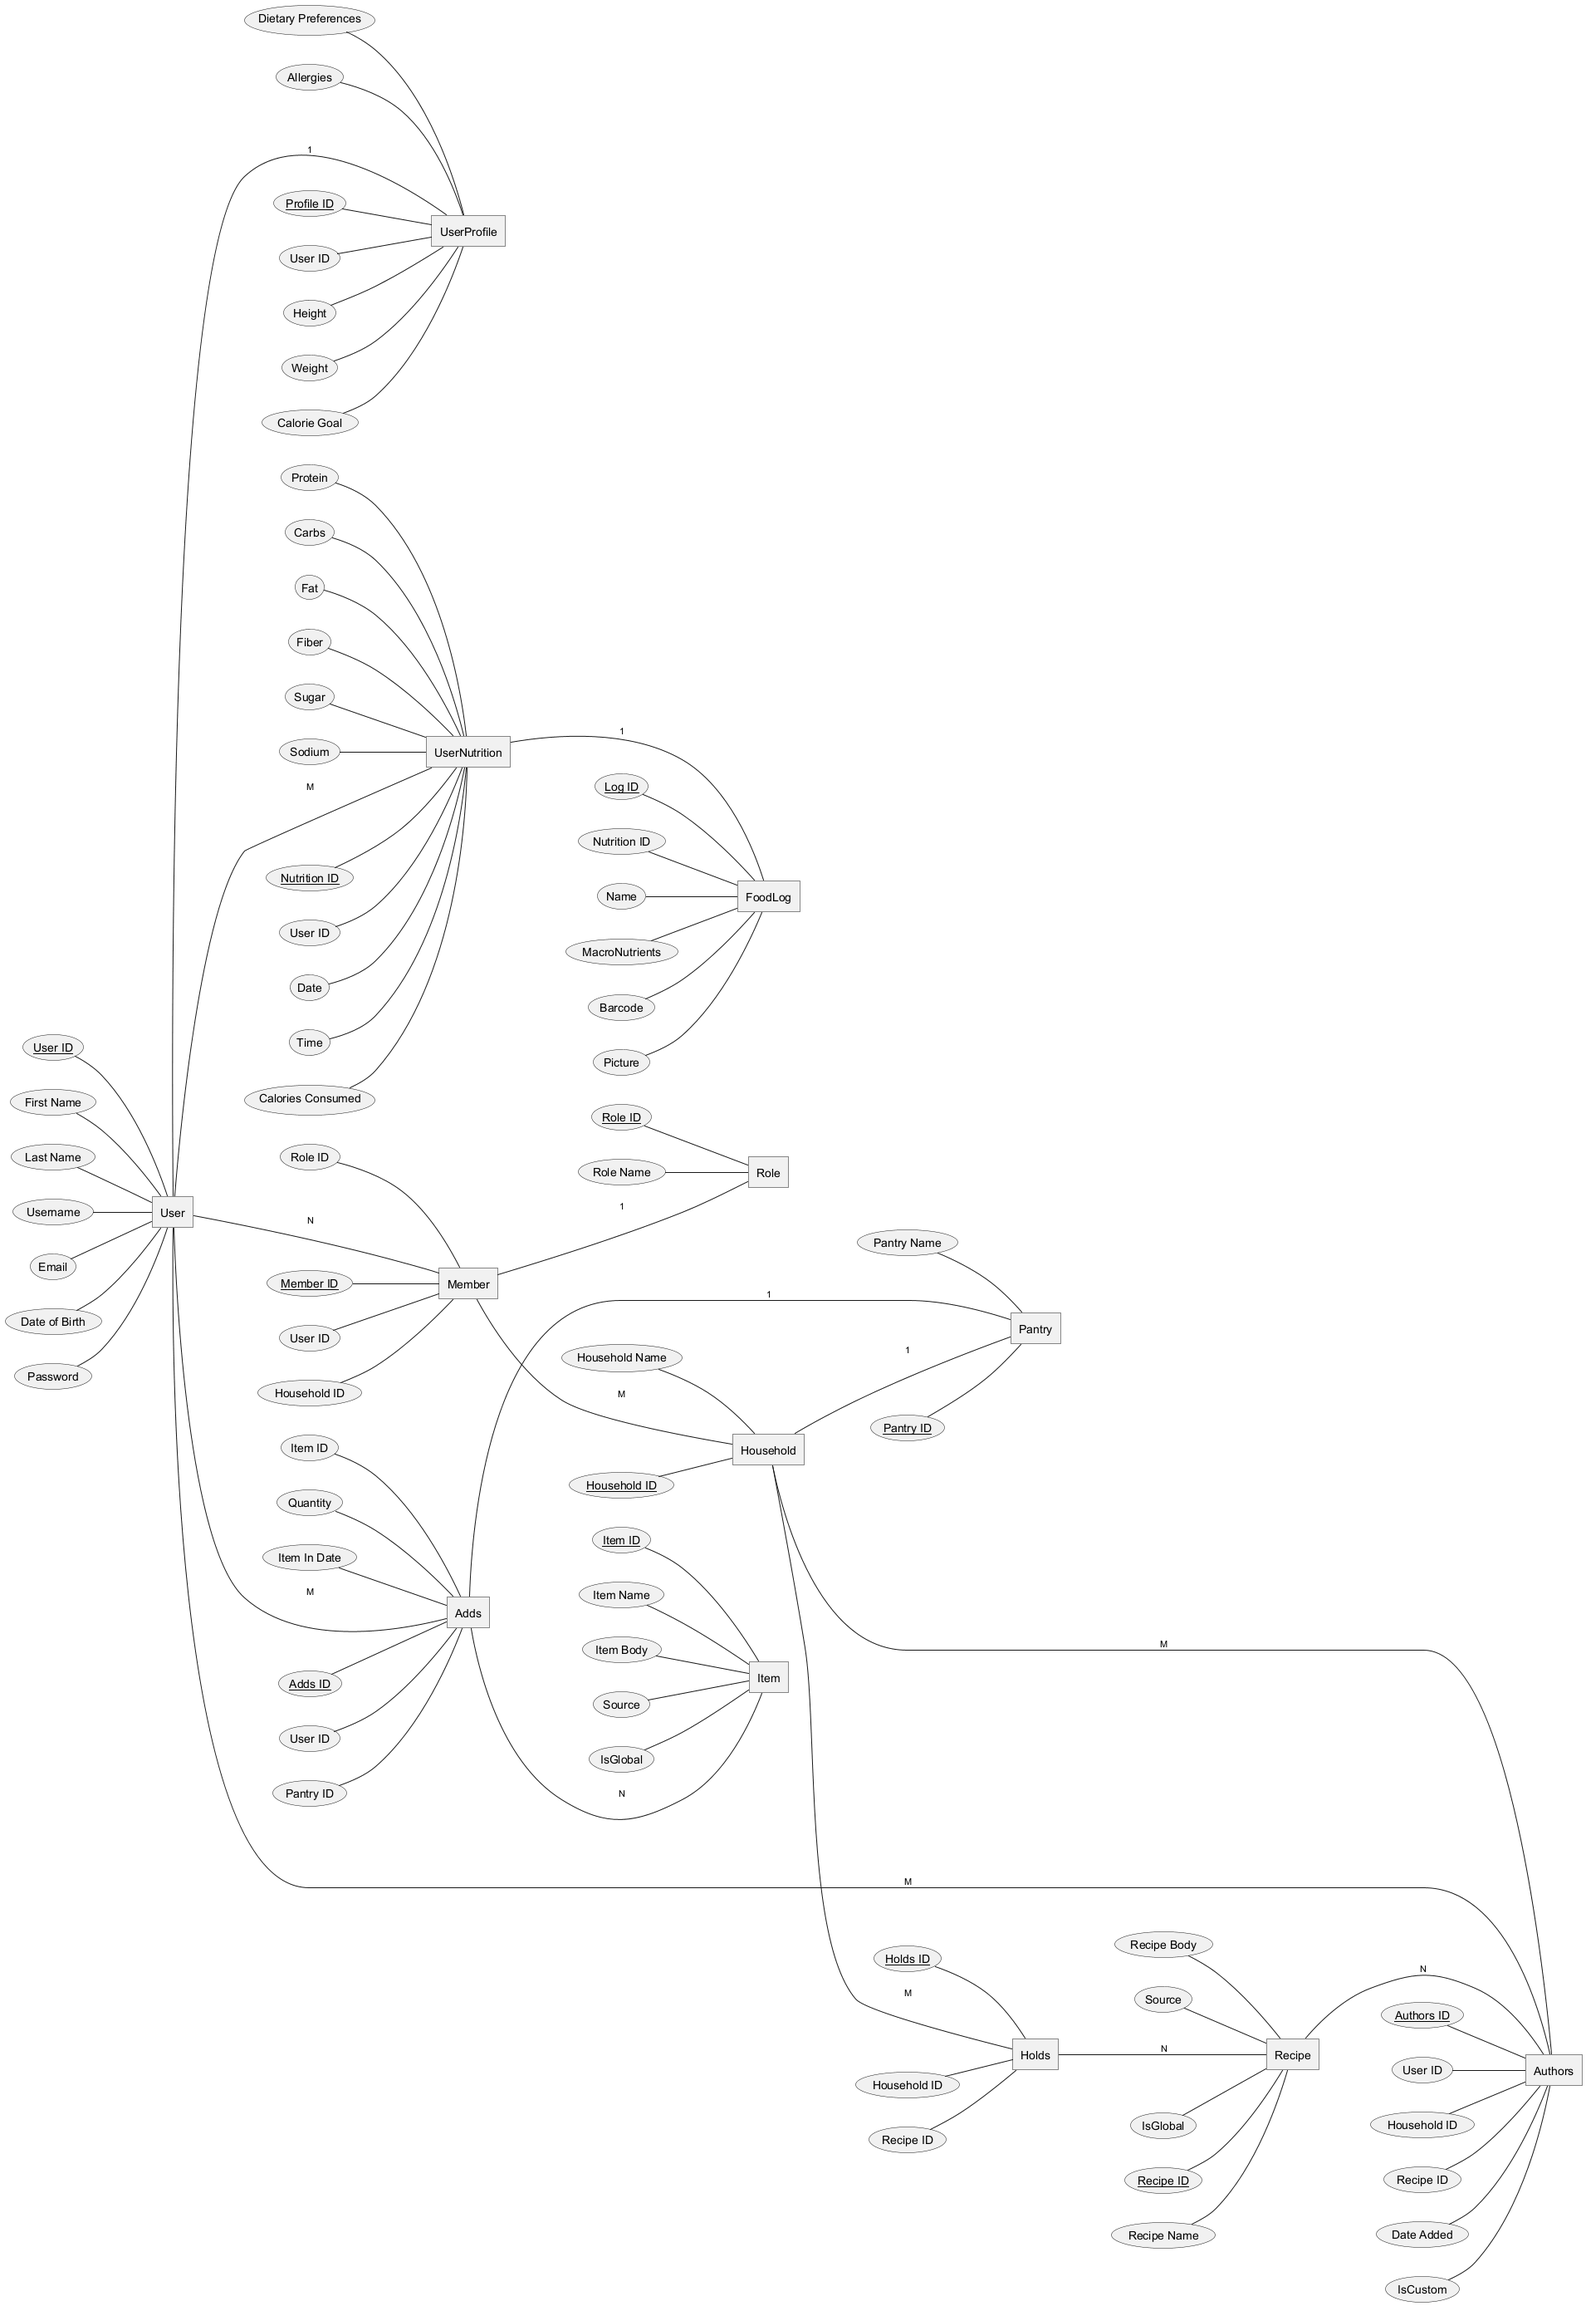
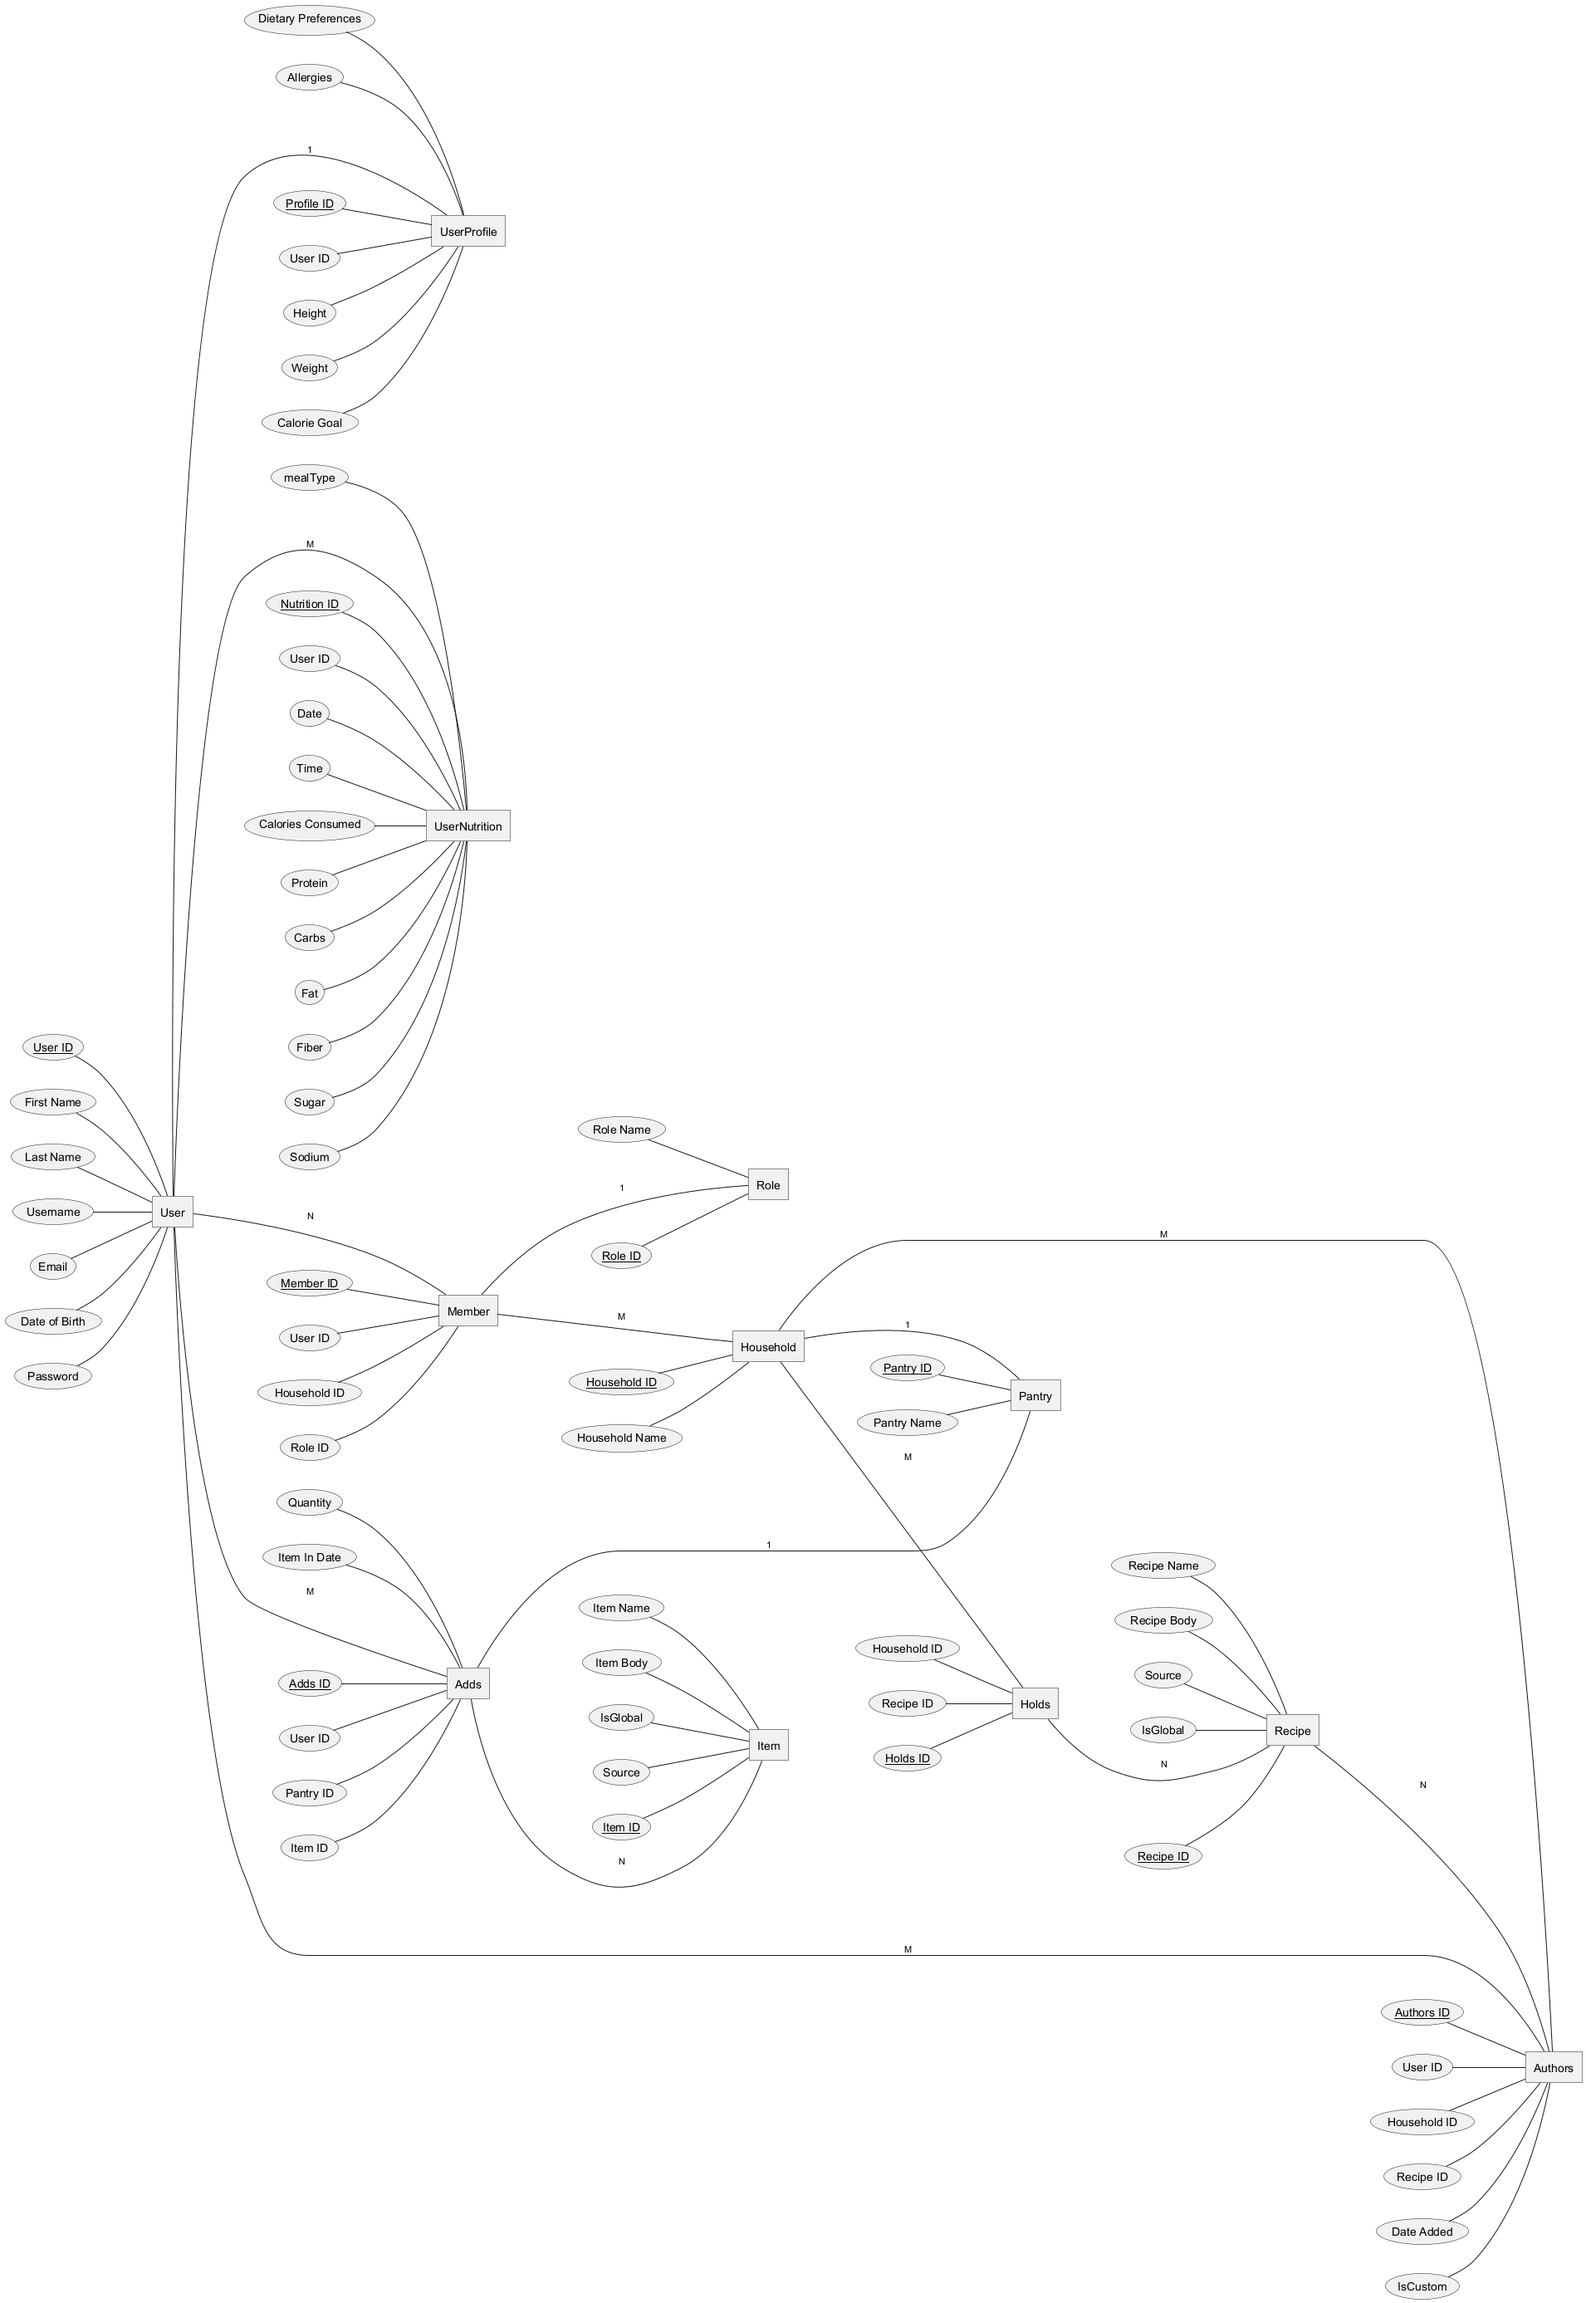
fixed ERD for food tracking & changed some css on search page

diff --git a/src/templates/meal_item_search.html b/src/templates/meal_item_search.html
@@ -12,7 +12,7 @@
 <main class="container">
   <h2>Search for your food item here</h2>
   <form action = "/api_search_item_name" method = "POST"> 
-    <input type = "search", id="search_input" name="search_input" placeholder="Type the name of your item here!!!"> 
+    <input type = "search", id="search_input" name="search_input" placeholder="Type the name of your item here!!!" value = {{userquery}}> 
     <button type="submit" > Search </button>
     </form>
     
@@ -20,8 +20,16 @@
     {% if productResults is not none %}
         {% for item in productResults %}
             <div class = searchedItemContainer>
-                <img src="{{ item['image_small_url'] }}">
-                <p><b>{{ item['generic_name_en'] | default('N/A') }}</b></p>
+                <img class = itemImage src="{{ item['image_small_url'] }}">
+                <div class = itemInfoContainer>
+                    <p class = itemTitle><b>{{ item['product_name'] | default('N/A') }}</b></p>
+                    <p class = itemInfo>Calories: {{ item['nutriments']['energy-kcal'] | default('N/A') }}</p>
+                    <p class = itemInfo>Carbs: {{ item['nutriments']['carbohydrates'] | default('N/A') }}</p>
+                    <p class = itemInfo>Protein: {{ item['nutriments']['proteins'] | default('N/A') }}</p>
+                    <p class = itemInfo>Fat: {{ item['nutriments']['fat'] | default('N/A') }}</p>
+                </div>
+                <Button class = itemAddbutton> addMeal </Button>
+                <!-- <button class = itemAddButton > Add Item </button> -->
                 <!-- {{item["image_small_url"]}} -->
             </div>
         {% endfor %}

diff --git a/src/static/calorieTracking.css b/src/static/calorieTracking.css
@@ -57,8 +57,46 @@
 
 .searchedItemContainer{
     border: #333;
-    background-color: #666;
+    background-color: #999;
+    border-radius: 10px;
     padding: 10px;
     margin: 10px;
+    display: grid;
+    grid-template-columns: 1fr 1fr 1fr; 
+    grid-template-rows: auto auto auto;
+
+    /* display: flex;
+    flex-direction: row;
+    justify-content: space-evenly; */
 }
 
+.itemImage {
+    width: 100px;/* Need to change this measurment*/
+    height: 100px; 
+    grid-column: 1;
+    grid-row:  1;
+    
+}
+
+.itemInfoitemInfoContainer {
+    /* flex-direction: column; */
+    /* align-self: center;
+    align-self: baseline; */
+    grid-column: 2;
+    grid-row: 1
+}
+
+.itemInfo {
+    padding: 0;
+    margin: 0l
+}
+/* 
+.itemTitle {
+    grid-column: 2;
+    grid-row: 1
+}
+*/
+.itemAddbutton {
+    grid-column: 3;
+    grid-row: 1; 
+} 

diff --git a/src/openfoodapi.py b/src/openfoodapi.py
@@ -22,6 +22,7 @@ from flask import flash
 import time
 import openfoodfacts
 import json
+import requests
 
 openfoodfacts_api_useragent = os.getenv('openfoodfacts_api_useragent', 'openfoodfacts_api_useragent')
 api = openfoodfacts.API(user_agent=openfoodfacts_api_useragent, timeout = 30)
@@ -30,9 +31,7 @@ def trottleApiBy(apiLimit):
     """
     Returns a float value which is used to trottle api connections
     """
-    print("HELLO????")
-    print("THROTTLING FLASK SESSION")
-    print(flaskSession)
+    
     if not ("lastApiSearch" in flaskSession):
         flaskSession["lastApiSearch"] = time.time()
         return 0
@@ -52,6 +51,7 @@ def trottleApiBy(apiLimit):
     # if flaskSession
 
 def searchByStr(searchText, **kwargs):#Will Need to sanitize search later
+    url = "https://world.openfoodfacts.org/cgi/search.pl"
     defaultFields = ["generic_name_en", 
                      "image_front_small_url",
                      "ingredients_text_en", 
@@ -60,13 +60,22 @@ def searchByStr(searchText, **kwargs):#Will Need to sanitize search later
                       "obsolete" ]
     page_size = kwargs.get("page_size", 100)## We should move this into the try loop for production
     page = kwargs.get("page", 1)
-    additionalAttributes = kwargs.get("additionalAttributes", defaultFields)#NEEDS TO BE PROPERLY IMLEMENTED LATER
-    # trottleApiBy(10)  
+    params = {
+        "search_terms": searchText,
+        "search_simple": 1, 
+        "json": 1,
+        "page": kwargs.get("page", 1),
+        "page_size": kwargs.get("page_size", 100),
+        "complete": 1,
+        "country": "united-states"
+        # "countries": "united-states"
+    } 
     try: 
-        rtn = api.product.text_search(searchText, page_size = page_size, page = page)#, page_size = page_size, page = page
+        response = requests.get(url, params=params)
+        responseAsJson = response.json()
         with open("jasonTempSave", "w") as f:
-            json.dump(rtn, f, indent=4) 
-        return rtn
+            json.dump(responseAsJson, f, indent=4) 
+        return responseAsJson
     except Exception as ex:
         print("Exception in API Call")#We need to handle errors better
         flash(ex, "error")
